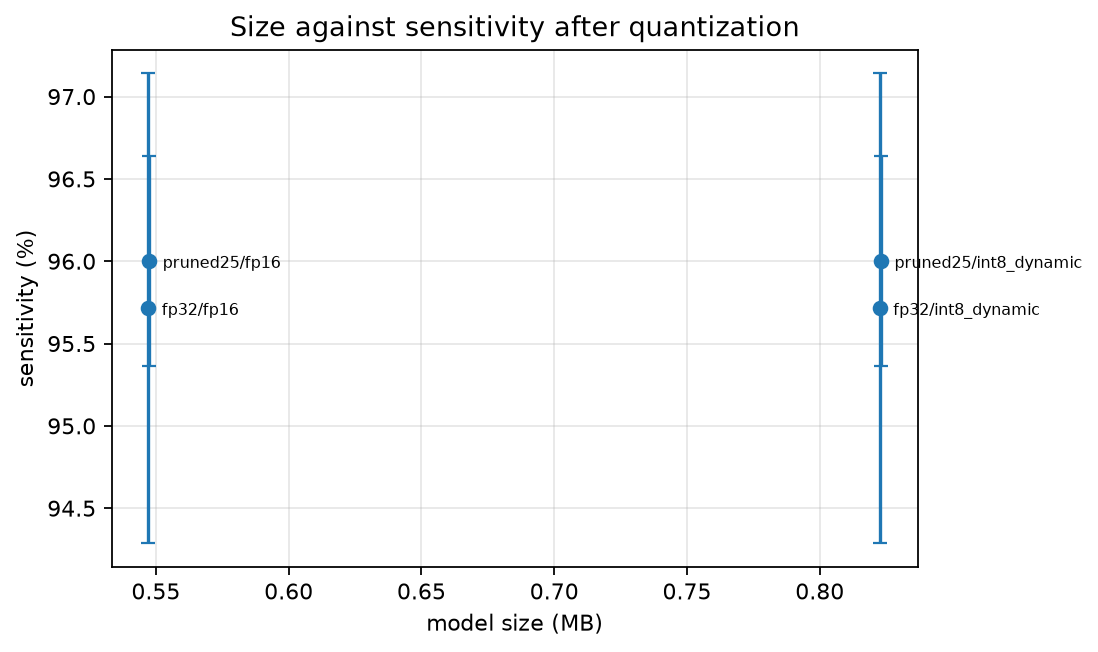
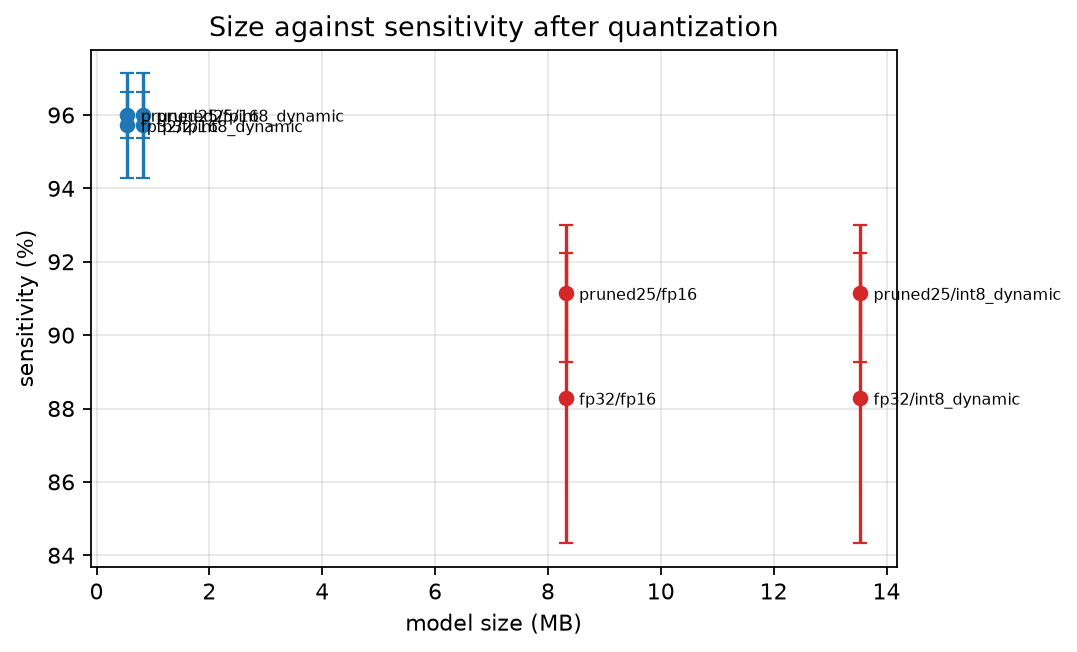
finish results

diff --git a/results/ANALYSIS.md b/results/ANALYSIS.md
@@ -79,6 +79,10 @@ The control is what licenses any claim about distillation. Without it, a student
 | compact | fp32 | int8_dynamic | 98.86 +/- 0.70 | 95.71 +/- 1.43 | 0.9958 +/- 0.0030 | 0.823 +/- 0.000 |
 | compact | pruned25 | fp16 | 99.19 +/- 0.27 | 96.00 +/- 0.64 | 0.9979 +/- 0.0013 | 0.548 +/- 0.000 |
 | compact | pruned25 | int8_dynamic | 99.19 +/- 0.27 | 96.00 +/- 0.64 | 0.9979 +/- 0.0013 | 0.823 +/- 0.000 |
+| full | fp32 | fp16 | 92.14 +/- 3.97 | 88.29 +/- 3.96 | 0.9731 +/- 0.0105 | 8.314 +/- 0.000 |
+| full | fp32 | int8_dynamic | 92.14 +/- 3.97 | 88.29 +/- 3.96 | 0.9731 +/- 0.0105 | 13.532 +/- 0.000 |
+| full | pruned25 | fp16 | 90.33 +/- 5.68 | 91.14 +/- 1.86 | 0.9740 +/- 0.0108 | 8.315 +/- 0.000 |
+| full | pruned25 | int8_dynamic | 90.33 +/- 5.68 | 91.14 +/- 1.86 | 0.9740 +/- 0.0108 | 13.533 +/- 0.000 |
 
 ## 5. Phone-capture robustness
 

diff --git a/docs/BUGS.md b/docs/BUGS.md
@@ -346,8 +346,9 @@ quantized only `compact` and no error was raised. The consequence is that
 FP16, INT8 or latency numbers for the 4.2M reconstruction, and nothing in the
 output said so.
 
-Fix: the stage now loops over every requested architecture. Recovering the
-missing rows needs a rerun of the quantize stage, roughly ten minutes.
+Fix: the stage now loops over every requested architecture, and the rerun
+recovered the missing rows. `quantize.csv` holds 40 rows and `latency.csv` 20,
+covering both architectures, with no export failures.
 
 
 ## 18. Stale repository URL
